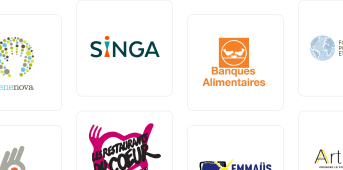
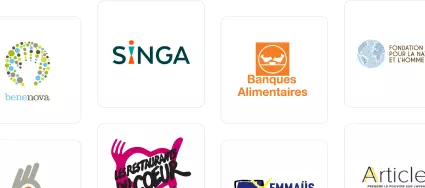
Bloc inscription responsable

diff --git a/components/section/home/BlocInscriptionResponsable.vue b/components/section/home/BlocInscriptionResponsable.vue
@@ -1,41 +1,52 @@
 <template>
-  <div class="relative p-4">
-    <div class="relative h-[525px] bg-white px-8 pt-16 pb-24">
-      <div class="text-5xl font-bold mb-6 leading-[56px] text-center">
-        <span class="relative"><img class="absolute left-[-26px] top-[-5px]" src="/images/home/sparkle-left.svg"> Ils sont là.</span>
-      </div>
-      <div class="text-xl leading-7 mb-6 text-center">
-        Tous les acteurs du bénévolat vous attendent sur la première <strong>plateforme nationale de l’engagement</strong>.
-      </div>
-      <div class="text-center">
-        <Button @click="handleClick()">
-          Inscrivez votre organisation
-        </Button>
+  <div class="container">
+    <div class="relative bg-white">
+      <div class="px-4 pt-8">
+        <Heading as="h2" size="alt-md" class="mb-6 text-center">
+          <span class="relative">
+            <img
+              aria-hidden="true"
+              src="/images/home/sparkle-left.svg"
+              width="37"
+              height="33"
+              class="absolute left-[-26px] top-[-10px] xxs:-top-2 pointer-events-none"
+            >
+            <span>Ils sont là.</span>
+          </span>
+        </Heading>
+        <p class="text-xl leading-7 mb-6 text-center">
+          Tous les acteurs du bénévolat vous attendent sur la première <strong>plateforme nationale de l’engagement</strong>.
+        </p>
+        <div class="text-center mb-8">
+          <Button @click="handleClick()">
+            Inscrivez votre organisation
+          </Button>
+        </div>
       </div>
 
-      <div class="absolute bottom-0 right-0 left-0">
-        <img
-          srcset="
-          /images/home/trombi-organisations.webp,
-          /images/home/trombi-organisations@2x.webp 2x,
-          /images/home/trombi-organisations.png,
-          /images/home/trombi-organisations@2x.png 2x
+      <img
+        srcset="
+          /images/home/trombi-organisations.webp, /images/home/trombi-organisations@2x.webp 2x,
+          /images/home/trombi-organisations.png, /images/home/trombi-organisations@2x.png 2x
         "
-          alt="Trombinoscope organisations"
-          class=""
-          data-not-lazy
-        >
-      </div>
+        src="/images/home/trombi-organisations.png"
+        alt=""
+        width="425"
+        height="188"
+        class="object-cover object-top w-full"
+      >
     </div>
   </div>
 </template>
 
 <script>
 import Button from '@/components/dsfr/Button.vue'
+import Heading from '@/components/dsfr/Heading.vue'
 
 export default {
   components: {
-    Button
+    Button,
+    Heading
   },
   handleClick () {
     window.plausible &&
@@ -46,7 +57,3 @@ export default {
   }
 }
 </script>
-
-<style>
-
-</style>
